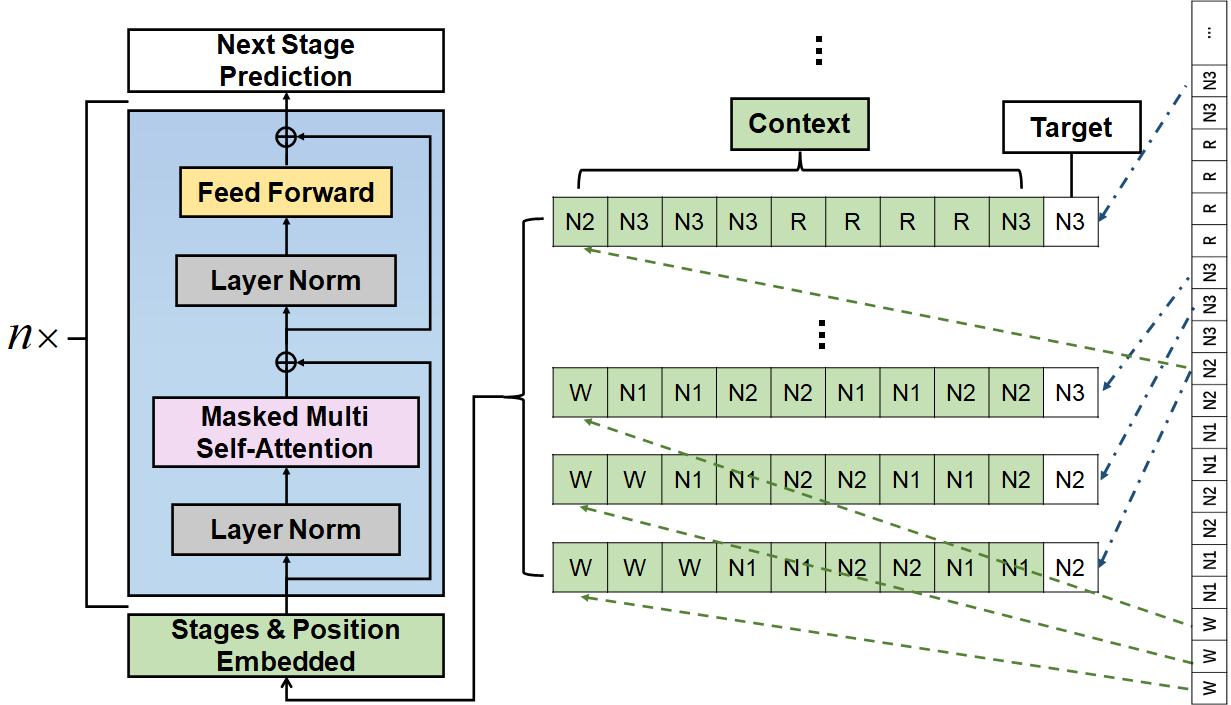
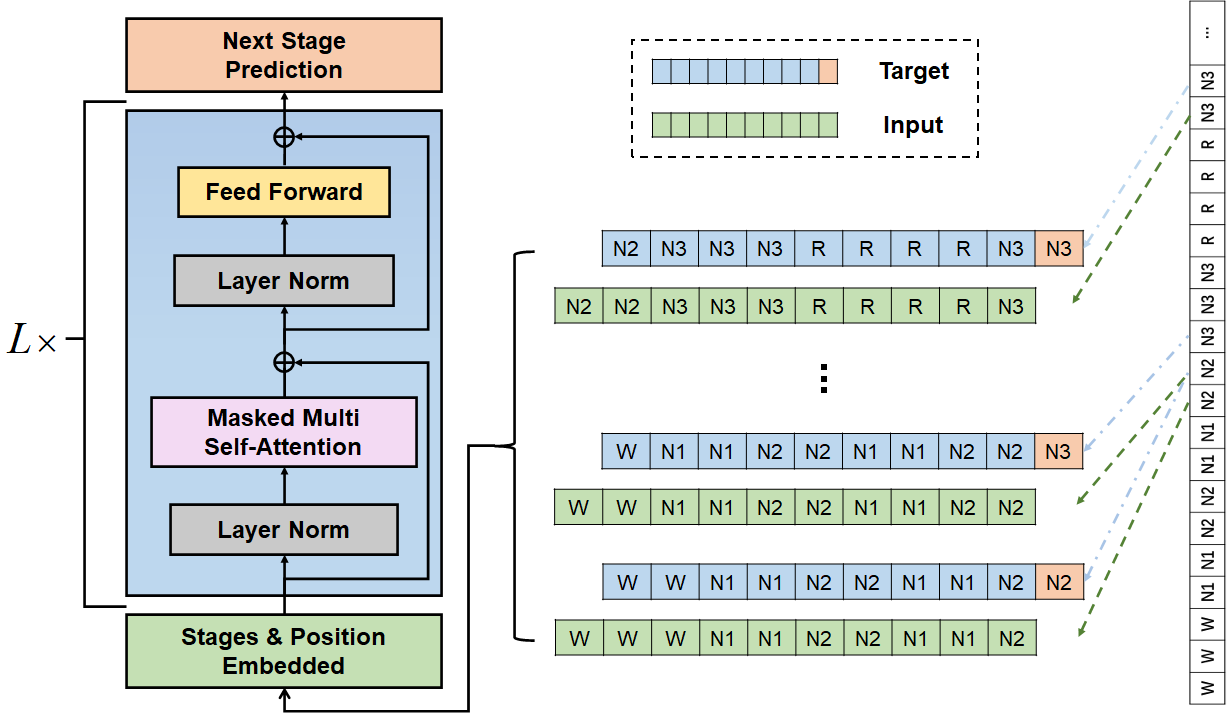
update sleepgpt figure

diff --git a/README.md b/README.md
@@ -2,7 +2,7 @@
 
 ## Overview
 ![SleepGPT](https://github.com/yuty2009/sleepgpt/blob/main/figures/sleepgpt.png)
-The architecture of the proposed SleepGPT model comprises a series of $n$ transformer decoder blocks. Overlapping blocks consisting of $K+1$ stages are extracted from an overnight sleep stage sequence with a stride of 1. Here, the initial $K$ sleep stages form the input, while the terminal stage within each block serves as the respective target.
+The architecture of the proposed SleepGPT model comprises a series of $L$ transformer decoder blocks. Overlapping blocks consisting of $K$ stages are extracted from an overnight sleep stage sequence with a stride of 1. Here, the $(i-1)$th input block of $K$ sleep stages are fed into the model for predicting the $i$th target block.
 
 ![HTN](https://github.com/yuty2009/sleepgpt/blob/main/figures/sleepgpt_htn.png)
 The hierarchical transformer network (HTN) for stage sequence-based sleep disorder diagnosis. The HTN model comprises a local feature extractor, i.e., the SleepGPT model, a transformer encoder responsible for global feature extraction, and a classification head dedicated to diagnosis. The configuration of the global transformer encoder is depicted to the right. Positioned at the bottom is an example of a whole-night sleep stage sequence, partitioned into non-overlapping segments that are subsequently input into the HTN model.
@@ -31,7 +31,7 @@ If you use the code or results in your research, please consider citing our work
 ```
 @article{yu2023sleepgpt,
   title={SleepGPT: A Sleep Language Model for Sleep Staging and Sleep Disorder Diagnosis},
-  author={Yu, Tianyou and Wang, Fei and Li, Man and Yu, Zhuliang and Li, Yuanqing and Gu, Zhenghui and Xiao, Jun},
+  author={Yu, Tianyou and Wang, Fei and Li, Man and Yu, Jingang and Yu, Zhuliang and Li, Yuanqing and Gu, Zhenghui and Xiao, Jun},
   journal={},
   volume={},
   pages={},
